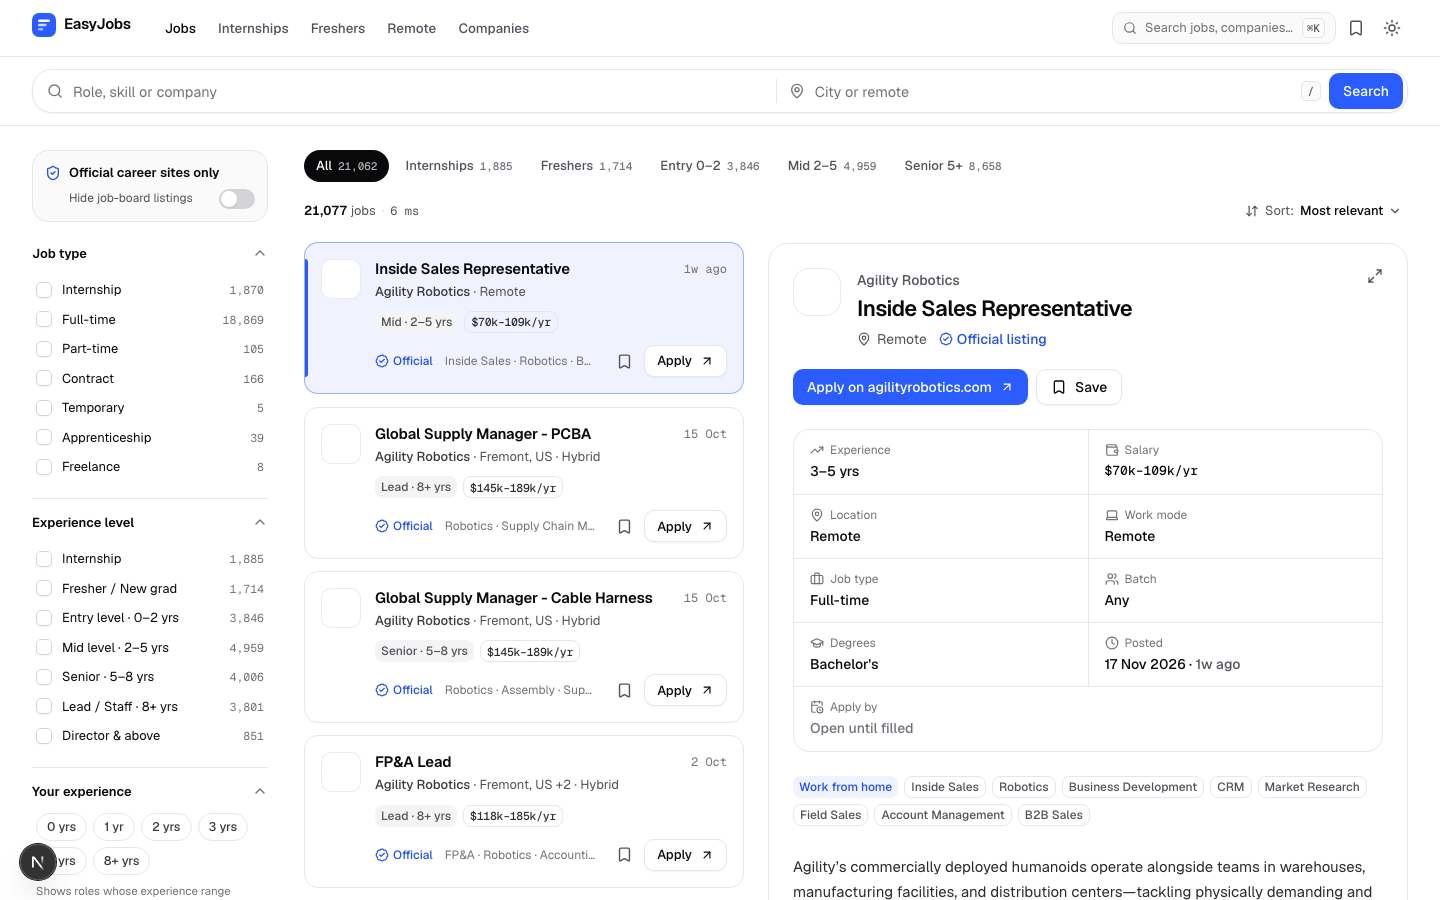
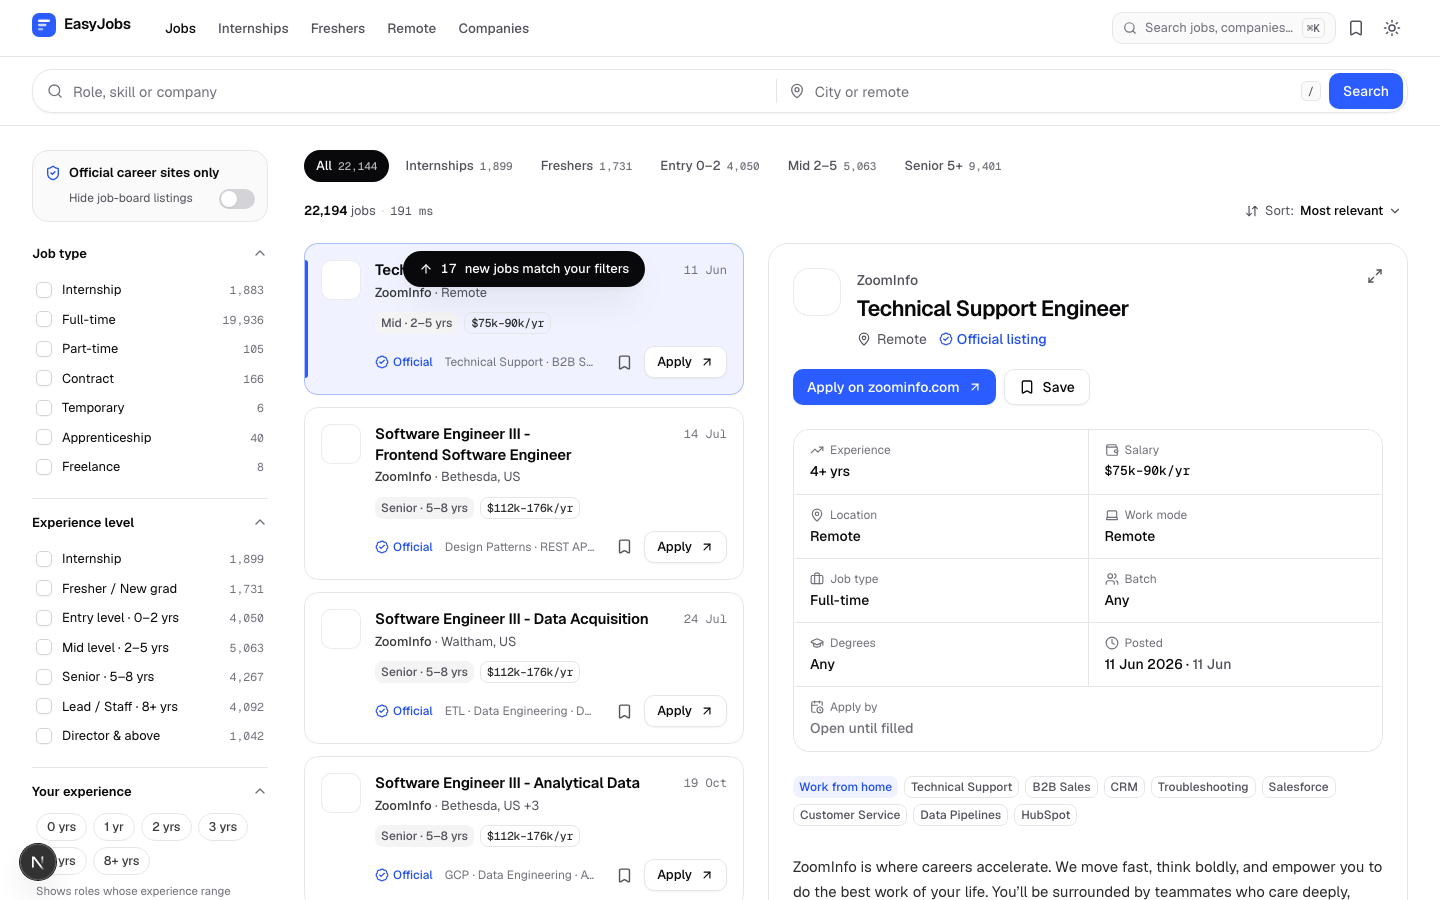
feat(W1): integration report, scrape:once summary, facet consistency check, live-pill smoke test
- docs/INTEGRATION.md: contract 1.1 changes, per-source results (47 sources, 0% invalid),
  CourseJoiner↔official merge example, smoke checks and ranked known issues
- scripts/scrape-once.mjs: run summary; exit 0 when jobs were delivered (dead boards are normal)
- scripts/check-facets.mjs: facet counts == filtered totals, disjunctive semantics, stats consistency
- apps/web/scripts/live-pill-check.mjs: SSE live pill against the real stack
- registry fixture: redact a third-party Mapbox token captured in a saved page

diff --git a/docs/INTEGRATION.md b/docs/INTEGRATION.md
@@ -1,0 +1,163 @@
+# Integration (W1)
+
+All 14 workspace packages now work as one system. A fresh clone runs with `pnpm install && cp .env.example .env && pnpm dev` plus `pnpm scrape:once`. During the smoke run on 2026-11-26 the site served **real jobs from 47 sources**: 50,021 open jobs from 3,174 companies. `pnpm check` (typecheck + test + lint) is green.
+
+## 1. What changed
+
+### Contract 1.1.0 (`packages/contract`)
+
+Every addition is optional, so 1.0 producers and consumers keep compiling.
+
+**`index.ts`**
+- `KNOWN_TAGS` gains five tags: `part-time`, `ppo`, `unpaid`, `visa-sponsorship`, `test-posting` (P03 #6, P10 #5).
+- New `DEGREES` canonical vocabulary and `Degree` type (P03 #2, P06 #4, P12 #5). Normalize now re-exports it from the contract.
+- `RawJob` gains:
+  - `light?: boolean` — a light record (P05 #4, P06 #2, P08 #3, P03 #1).
+  - `applyUrlSpecific?: boolean` — fingerprint rule 1 only for job-specific official URLs (P03 #3a, P06 #3).
+- `JobInput.extra` conventions are documented: `light`, `normalize.defaulted`, `terms`.
+- `CompanyTarget.aliases?: string[]` (P04 #1).
+- New `SourceTerms` type plus `JobSourceRef.attribution?` and `JobSourceRef.terms?` (P12 #1, legal display conditions).
+- `JobsSearchResponse` gains `corrections?: Record<string,string>` and `fuzzy?: boolean` (P02 #3); the API previously sent these only as headers.
+- `SweepRequest.target: string | null` and `SweepResponse.removed?` (P02 #1–2).
+- `RunReport` gains `complete?` and `stats?` (P05 #5).
+
+**`node.ts`**
+- `HttpError` gains `headers` and a `blocked` getter (P08 #4).
+- New `isBlockedResponse()` and an exported `SourceBlockedError` class (P12 #6).
+- The HTTP client never retries 999, statuses ≥ 600, or `cf-mitigated: challenge` responses (P11 #3, P08 #4).
+- robots.txt follows RFC 9309: a 5xx, 429 or network failure means disallow-all, re-checked after 10 minutes instead of being treated as allow-all (P11 #2).
+- `ScrapeContext` gains typed hooks `markIncomplete`, `report` and `markSeen`. The docs now say `since` and `isKnown` may only be used to skip work, never to shrink a complete run (P05 #2–3, P07 #1, P08 #1, P09 #1–2, P10 #1, P11 #1).
+- `Scraper.sweep?: boolean`.
+
+**Deferred** (worked around today; see §4):
+- `Salary.period` `week`/`day`: normalize converts weekly and daily pay to monthly.
+- `remoteScope`; `ctx.state`; `applyFormUrl`; `locationParts`.
+- `CompanyTarget.status` / `boards`; `FacetBucket` metadata.
+- A report endpoint; `stats.byCategory`; a stream event for closed jobs.
+- `JobInput.companyHq` / `careersUrl`: the API already enriches companies from the registry.
+- A type-ahead `prefix` flag.
+
+### Fixes and wiring per package
+
+| Package | Change |
+|---|---|
+| root | `pnpm-workspace.yaml` gains `allowBuilds`, which is what pnpm 12 reads, so `pnpm install`/`add` stop exiting with ERR_PNPM_IGNORED_BUILDS. `packageManager` is pinned to `pnpm@12.23.0`. New root scripts: `dev`, `scrape:once`, `seed`, `reset`, `check`, `lint`, `build`, `worker`. Also a merged `.env.example` and README. |
+| worker | Contract hooks are typed. `markSeen` feeds the sweep's seen set. A `SourceBlockedError` or an anti-bot `HttpError` becomes a graceful "blocked" stop (paused until `retryAt`, default 6 h) instead of backoff and breaker. New `WORKER_DISABLED_SOURCES=<ids>` kill switch for any scraper. `Scraper.attribution` is copied into `extra.attribution`. +4 tests. |
+| db / api | `GET /v1/ingest/known` lists only ids stored **with a description**, so light/card-only jobs get their details (P07 #2, P08 #2, P10). `corrections`/`fuzzy` are in the JSON body. `job_sources.attribution`/`terms` (migration `0005_source_terms`) are surfaced on `JobSourceRef`. `test-posting` jobs are born closed. New `pnpm --filter @easyjobs/db reset`. +3 tests. |
+| normalize | `DEGREES` comes from the contract. Reads `RawJob.applyUrlSpecific`. |
+| web | Real API by default (`NEXT_PUBLIC_USE_MOCKS=0`, §0.7). Labels for the new tags; `suspicious`/`test-posting` are never shown as badges. "Showing results for …" from `corrections`. Source terms are honoured: credit line, followed link when `followLinkRequired`, no JobPosting JSON-LD or sitemap entry for restricted non-official listings. normalize's raw Google-favicon `logoUrl`s go through the `/logo/<domain>` proxy (no browser 404s, no blurry icons). +3 tests. |
+| scraper-bigtech | **Bug:** listings cut off at `maxPages` looked complete and were swept, closing live jobs. All 13 listing paths now call `ctx.markIncomplete`. +2 tests. |
+| scraper-ats-public | **Bug:** Ashby registry tokens that are already percent-encoded (`Flock%20Safety`) were double-encoded to `%2520` and read as dead boards. +2 tests. |
+| scraper-ats-enterprise | **Bug:** the per-tenant limiter spaced *scheduled* slots, so when timers fired late (a busy event loop) two requests started back to back. It now spaces *actual* starts. |
+| tests | Two CPU- and subprocess-heavy suites (normalize fuzz, worker CLI) timed out under a load average of 77. They now have explicit timeouts; nothing was skipped or loosened. |
+| registry | A fixture page captured a third party's Mapbox token; it is redacted, and GitHub push protection flagged it. |
+
+## 2. Smoke run (2026-11-26, PGlite, this machine)
+
+- `pnpm worker list` discovered **63 scrapers from 7 packages**, plus the real `@easyjobs/normalize` and `@easyjobs/registry` (1,581 companies). The scheduler planned 860 tasks.
+- `pnpm dev` → API (migrations applied), worker (starts once the API is healthy) and web.
+- `pnpm scrape:once` → 65 tasks at `--limit 30` (2 boards per ATS). 0 % invalid for every source; the failures are dead or blocked boards (table below).
+- **Jobs from each source appear:** 47 sources with open jobs. The scheduler ran full crawls alongside, hence the totals.
+- **Facet counts match:** 73 sampled buckets across all 11 facet groups equal the `total` of the corresponding filtered query (0 mismatches). The level facet stays unchanged when level is selected (disjunctive). `stats.byLevel == facets.level` and `stats.totalOpen == total`. Check script: `node scripts/check-facets.mjs`.
+- **Job pages render** (SSR + JSON-LD); `/jobs/<id>/<wrong-slug>` returns 308.
+- **Live pill:** with `/jobs` open, a manual `pnpm worker once --source greenhouse --target aircall` (15 new jobs) plus the running scheduler gave "50 new jobs match your filters". Clicking it put the new jobs on top (`apps/web/scripts/live-pill-check.mjs`).
+- **CourseJoiner ↔ official merge:** 17 blog posts merged with their official postings. Example: **"Student Researcher, 2027" at Google** (`/jobs/97qu03riizy`), one job with three sources:
+  - `google` (career_site) — `https://www.google.com/about/careers/applications/jobs/results/125423735539671750-student-researcher` (`applyUrl`)
+  - `coursejoiner` (aggregator) — `https://coursejoiner.com/internship/google-student-researcher-internship-4/`
+  - `freshershunt` (aggregator) — `https://freshershunt.in/google-internship-2027/`
+
+## 3. Per-source results
+
+\* "Open jobs in DB" includes the scheduler's full crawls that ran during the smoke run, not only the `--limit 30` pass.
+
+| Family | Source | Enabled | `scrape:once` tasks | Read | Invalid | Open jobs in DB* | Errors / notes |
+|---|---|---|---|---|---|---|---|
+| ats-enterprise | `avature` | yes | 2 | 30 | 0% | 282 | scrape failed: avature: 1/1 target(s) incomplete — mckinsey-and-company: HTTP 404 https:// |
+| ats-enterprise | `eightfold` | yes | 2 | 60 | 0% | 459 | — |
+| ats-enterprise | `icims` | yes | 2 | 30 | 0% | 30 | scrape failed: icims: 1/1 target(s) incomplete — seismic: icims: no job URLs discovered fr |
+| ats-enterprise | `jsonld` | yes | 2 | 3 | 0% | 2 | blocked (reported by scraper): cognizant: jsonld: crawl stopped early — blocked by an anti |
+| ats-enterprise | `oracle` | yes | 2 | 60 | 0% | 2,432 | — |
+| ats-enterprise | `phenom` | yes | 2 | 60 | 0% | 314 | — |
+| ats-enterprise | `successfactors` | yes | 2 | 60 | 0% | 817 | — |
+| ats-enterprise | `taleo` | yes | 2 | 0 | — | 0 | scrape failed: taleo: 1/1 target(s) incomplete — societe-generale: taleo: no job URLs disc |
+| ats-public | `ashby` | yes | 2 | 30 | 0% | 11,112 | — |
+| ats-public | `bamboohr` | yes | 2 | 35 | 0% | 37 | — |
+| ats-public | `greenhouse` | yes | 2 | 60 | 0% | 17,297 | — |
+| ats-public | `lever` | yes | 2 | 41 | 0% | 658 | — |
+| ats-public | `personio` | yes | 2 | 6 | 0% | 5 | — |
+| ats-public | `recruitee` | yes | 2 | 38 | 0% | 38 | — |
+| ats-public | `smartrecruiters` | yes | 2 | 31 | 0% | 713 | — |
+| ats-public | `teamtailor` | yes | 2 | 5 | 0% | 5 | — |
+| ats-public | `workable` | yes | 2 | 40 | 0% | 134 | — |
+| bigtech | `accenture` | yes | 1 | 30 | 0% | 2,702 | — |
+| bigtech | `amazon` | yes | 1 | 30 | 0% | 2,057 | — |
+| bigtech | `apple` | yes | 1 | 30 | 0% | 182 | — |
+| bigtech | `atlassian` | yes | 1 | 22 | 0% | 22 | — |
+| bigtech | `axis-bank` | yes | 1 | 30 | 0% | 200 | — |
+| bigtech | `capgemini` | yes | 1 | 30 | 0% | 809 | — |
+| bigtech | `deloitte` | yes | 1 | 30 | 0% | 200 | — |
+| bigtech | `ey` | yes | 1 | 30 | 0% | 200 | — |
+| bigtech | `google` | yes | 1 | 30 | 0% | 253 | — |
+| bigtech | `hcltech` | yes | 1 | 30 | 0% | 197 | — |
+| bigtech | `hdfc-bank` | yes | 1 | 30 | 0% | 230 | — |
+| bigtech | `ibm` | yes | 1 | 0 | — | 3,698 | scrape failed: ibm: Disallowed by robots.txt: https://www-api.ibm.com/search/api/v2 |
+| bigtech | `ltimindtree` | yes | 1 | 30 | 0% | 30 | — |
+| bigtech | `microsoft` | yes | 1 | 28 | 0% | 28 | scrape failed: microsoft: fetch failed |
+| bigtech | `ntt-data` | yes | 1 | 30 | 0% | 223 | — |
+| bigtech | `tata-elxsi` | yes | 1 | 30 | 0% | 30 | — |
+| bigtech | `wipro` | yes | 1 | 30 | 0% | 30 | — |
+| bigtech | `zoho` | yes | 1 | 9 | 0% | 9 | — |
+| coursejoiner | `coursejoiner` | yes | 1 | 30 | 0% | 126 | — |
+| coursejoiner | `fresheroffcampus` | yes | 1 | 30 | 0% | 219 | — |
+| coursejoiner | `freshershunt` | yes | 1 | 30 | 0% | 199 | — |
+| coursejoiner | `kickcharm` | yes | 1 | 30 | 0% | 115 | — |
+| internshala | `internshala-internships` | yes | 1 | 30 | 0% | 933 | — |
+| internshala | `internshala-jobs` | yes | 1 | 30 | 0% | 854 | — |
+| open-apis | `arbeitnow` | yes | 1 | 13 | 0% | 13 | — |
+| open-apis | `himalayas` | yes | 1 | 30 | 0% | 187 | — |
+| open-apis | `hn-whoishiring` | yes | 1 | 30 | 0% | 277 | — |
+| open-apis | `jobicy` | yes | 1 | 30 | 0% | 102 | — |
+| open-apis | `remoteok` | yes | 1 | 5 | 0% | 5 | — |
+| open-apis | `unstop` | yes | 1 | 30 | 0% | 1,636 | — |
+| open-apis | `weworkremotely` | yes | 1 | 7 | 0% | 7 | — |
+| ats-enterprise | `workday` | off here (`WORKER_DISABLED_SOURCES`; Cloudflare challenges this IP) | 0 | 0 | — | 0 | — |
+| open-apis | `themuse` | off here (Cloudflare 403 from this network) | 0 | 0 | — | 0 | — |
+| open-apis | `remotive` | off here (4 calls/day quota spent) | 0 | 0 | — | 0 | — |
+| open-apis | `adzuna` | off (needs `ADZUNA_APP_ID`+`ADZUNA_APP_KEY`) | 0 | 0 | — | 0 | — |
+| open-apis | `jooble` | off (needs `JOOBLE_API_KEY`) | 0 | 0 | — | 0 | — |
+| portals | `linkedin` | off by default (`ENABLE_LINKEDIN`) | 0 | 0 | — | 0 | — |
+| portals | `naukri` | off by default (`ENABLE_NAUKRI`) | 0 | 0 | — | 0 | — |
+| bigtech | `meta` | off (P09: disabledReason) | 0 | 0 | — | 0 | — |
+| bigtech | `uber` | off (P09) | 0 | 0 | — | 0 | — |
+| bigtech | `flipkart` | off (P09) | 0 | 0 | — | 0 | — |
+| bigtech | `tcs` | off (P09) | 0 | 0 | — | 0 | — |
+| bigtech | `tech-mahindra` | off (P09) | 0 | 0 | — | 0 | — |
+| bigtech | `cognizant` | off (P09) | 0 | 0 | — | 0 | — |
+| bigtech | `infosys` | opt-in (`ENABLE_INFOSYS=1`) | 0 | 0 | — | 0 | — |
+| ats-public | `breezy` | on (0 registry boards) | 0 | 0 | — | 0 | — |
+
+## 4. Known issues, ranked by impact
+
+1. **India relevance.** Global ATS boards (Greenhouse 17k, Ashby 11k) bring many non-India and even non-English postings; the default "relevance" sort put a Ukrainian blue-collar job first. The registry sets no country hints (`extra.country`), so ATS crawls are global (Bosch: 5,168 jobs, 687 in India). → **W2**: boost India and remote-India in `rank_base`, and set country hints for big global boards.
+2. **Workday is blocked from this IP** (Cloudflare `429` + `cf-mitigated: challenge` to Node). It is disabled here via `WORKER_DISABLED_SOURCES`. 272 registry tenants are still unverified. Re-run `pnpm --filter @easyjobs/registry verify --only workday` from a clean IP and keep `WORKDAY_DELAY_MS ≥ 3000`, `WORKDAY_CONCURRENCY=1`.
+3. **Salary and batch quality:**
+   - ATS placeholder ranges ("USD 1–999,999") top the "Highest pay" sort.
+   - Batches implied by the title are missed (Google "Student Researcher, 2027" → `batches: []`).
+   - → **W2** normalize fixes.
+4. **Dead or misconfigured registry boards:**
+   - `icims:seismic` — no job URLs
+   - `avature:mckinsey-and-company` — 404
+   - `taleo:societe-generale` — no job URLs
+   - `jsonld:cognizant` — anti-bot wall
+   - darwinbox, keka, zoho_recruit, freshteam — 45 entries with no adapter
+   - → registry cleanup with `verify`.
+5. **Microsoft careers** allows about 5 requests/min per IP. A run takes about 16 minutes with 429 back-offs and still gets about 28 jobs per run.
+6. **Six companies are not covered by P09** (`meta`, `uber`, `flipkart`, `tcs`, `tech-mahindra`, `cognizant` are disabled for policy or technical reasons). They are only reached through aggregators. `infosys` is opt-in.
+7. **Sources off on this machine:** The Muse (Cloudflare 403) and Remotive (4 calls per day). Adzuna and Jooble need keys; LinkedIn and Naukri are off by default.
+8. **Light-record markers differ** (`extra.light`, `extra.detail`, none). Normalize infers light from the missing description, which works. Scrapers can now move to `RawJob.light`.
+9. **Double crawl:** `ntt-data` is both a registry `phenom` target and a P09 scraper. Fingerprints merge the results, but the work is done twice.
+10. **IBM fails closed once in a while.** Its robots.txt redirects to the homepage. A transient fetch failure now means "disallow" for 10 minutes (RFC 9309), so one run in a while fails cleanly.
+11. **PGlite is single-process:** `pnpm reset` needs `pnpm dev` stopped. Use Postgres for anything shared.
+12. **`once` and `start` can overlap.** There is no lock between a manual `once` and the running scheduler; both stay polite per host but double the load briefly.
+13. **Dev-only React warning** from next-themes' inline script on client-side 404 navigation.
+14. **Leftover P02 benchmark artifacts:** `.data/pglite-bench` (1.8 GB) and an `easyjobs_bench` database on the local Homebrew Postgres. Both are safe to delete.
